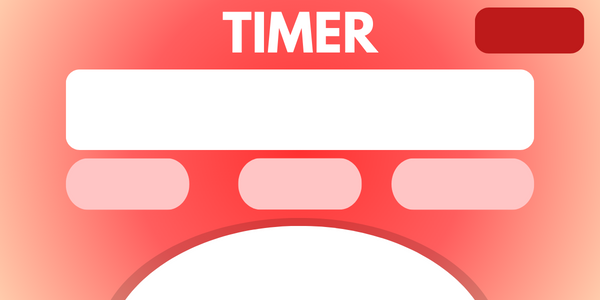
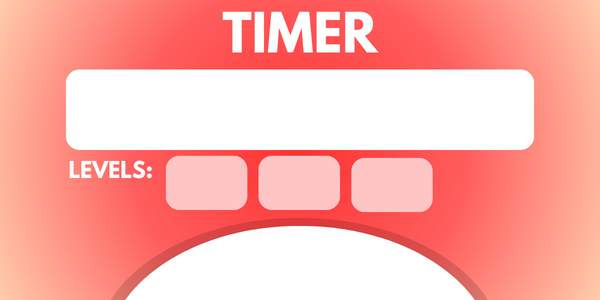
working on time presets

Changed region(s): [[0.09, 0.51, 0.9, 0.72], [0.78, 0.0, 0.99, 0.18]]

diff --git a/efe.py b/efe.py
@@ -27,12 +27,6 @@ beep=pygame. mixer.music.load('pomodoro_beep.mp3')
 bg_img=PhotoImage(file=r'./timer.png')
 pink='#FFC5C5'
 
-cycle =1
-current_time=None
-short_breaktime=False
-long_breaktime=False
-breaktime=False
-    
 
     
 
@@ -57,12 +51,17 @@ Label(root,text='SEC', bg='white').place(x='470',y='120')
 sec.set("00")
 
 
+cycle =1
+current_time=None
+breaktime=NO
 
 
 
 def start_timer():
     global time_run
+    global cycle
     time_run=True
+    cycle=+1
     timer()
    
 def pause_timer():
@@ -70,7 +69,8 @@ def pause_timer():
     time_run=False
     print('timer has paused')
     global current_time
-    root.after_cancel(current_time) #cancels the operation above
+    if current_time is not None:
+        root.after_cancel(current_time) #cancels the operation above
    
     global pause_popup
     global pausebg
@@ -91,14 +91,6 @@ def pause_timer():
     no_button=Button(pause_popup, text='NO, ILL TRY AGAIN', font=('calibri 10 bold'), bg='white', bd=0)
     no_button.place(x='160', y='140')
     
-
-   
-def stop_timer():
-    global time_run
-    time_run=False
-    hrs.set('00')
-    mins.set('00')
-    sec.set('00')
     
 
 def break_mode():
@@ -111,34 +103,29 @@ def break_mode():
     workcbutton.destroy()
     break_noti.destroy()
     
-               
 
 
 def timer():
-    global time_run, current_time, breaktime,short_breaktime, long_breaktime, cycle
-   
+    global time_run
+    global current_time
     total_time = int(hrs.get()) * 3600 + int(mins.get()) * 60 + int(sec.get())
     
-    if total_time > 0 :
+    if total_time > 0:
+        
         total_time -= 1
         hrs.set(str(total_time // 3600).zfill(1))
         mins.set(str((total_time % 3600) // 60).zfill(1))
         sec.set(str(total_time % 60).zfill(1))
-        current_time= root.after(1000, timer) #starts countdown        
-    
-    else: #timer 00
-        global break_noti, cycle, breaktime, break_notiimg
-        breaktime=True
-        if breaktime==True: 
-            cycle+=1
-            if cycle%4==0:
-                short_breaktime==False
-                long_breaktime==True
-            else:
-                long_breaktime==False
-                short_breaktime == True
-                
+        current_time= root.after(1000, timer) #starts countdown
         
+
+    
+    else:
+        global break_noti
+        global break_notiimg
+        global breaktime
+        breaktime=YES
+
         break_notiimg=PhotoImage(file=r'C:\Users\USER\Projects\Meowstermind\BREAK_NOTI.png')
         break_noti = Toplevel()
         break_noti.title(f'Break Time!')
@@ -152,46 +139,22 @@ def timer():
         break_continuebutton=Button(break_noti, text='PROCEED', font=('calibri 12 bold'), bg='white', bd=1, command=break_mode)
         break_continuebutton.place(x='400', y='250')
 
+global break_continuebutton
 
-#time presets
-def worka():
-    hrs.set("00")
-    mins.set("00")
-    sec.set("10")
-    if short_breaktime:
-        hrs.set("00")
-        mins.set("05")
-        sec.set("00")
-    elif long_breaktime:
-        hrs.set("00")
-        mins.set("15")
-        sec.set("00")
-    
-def workb():
+
+  
+   
+   
+def stop_timer():
+    global time_run
+    time_run=False
     hrs.set('00')
-    mins.set('40')
-    sec.set('00')
-    if short_breaktime:
-        hrs.set("00")
-        mins.set("10")
-        sec.set("00")
-    elif long_breaktime:
-        hrs.set("00")
-        mins.set("20")
-        sec.set("00")
-    
-def workc():
-    hrs.set('01')
     mins.set('00')
     sec.set('00')
-    if short_breaktime:
-        hrs.set("00")
-        mins.set("15")
-        sec.set("00")
-    elif long_breaktime:
-        hrs.set("00")
-        mins.set("25")
-        sec.set("00")
+
+
+
+
 
 
 
@@ -204,19 +167,43 @@ stopicon=PhotoImage(file=r'C:\Users\USER\Projects\Meowstermind\images\stop.png')
 stopbutton=Button(root,text='stop', image=stopicon, bg='white', borderwidth=0, command=stop_timer).place(x='350',y='250')
 
 
-    
-moyen=PhotoImage(file=r'C:\Users\USER\Projects\Meowstermind\images\MOYEN.png')
-moolan=PhotoImage(file=r'C:\Users\USER\Projects\Meowstermind\images\MOOLAN.png')
-maria=PhotoImage(file=r'C:\Users\USER\Projects\Meowstermind\images\MARIA.png')
-workabutton=Button(root, image=moyen, bg=pink, font='comfortaa 18 bold', borderwidth=0, command=worka)
-workabutton.place(x='175',y=' 160')
-workbbutton=Button(root, image=moolan, bg=pink, font='comfortaa 18 bold', borderwidth=0, command=workb)
-workbbutton.place(x='270',y=' 160')
-workcbutton=Button(root, image=maria, bg=pink, font='comfortaa 18 bold', borderwidth=0, command=workc)
-workcbutton.place(x='365',y=' 160')
 
+
+
+#time presets
+def worka():
+    hrs.set("00")
+    mins.set("25")
+    sec.set("00")
+    
+def workb():
+    hrs.set('01')
+    mins.set('00')
+    sec.set('00')
+    
+def workc():
+    hrs.set('2')
+    mins.set('00')
+    sec.set('00')
+    
+workabutton=Button(root, text='25 MIN', bg=pink, font='comfortaa 18 bold', borderwidth=0, command=worka)
+workabutton.place(x='80',y=' 160')
+workbbutton=Button(root, text='60 MIN', bg=pink, font='comfortaa 18 bold', borderwidth=0, command=workb)
+workbbutton.place(x='250',y=' 160')
+workcbutton=Button(root, text='120 MIN', bg=pink, font='comfortaa 18 bold', borderwidth=0, command=workc)
+workcbutton.place(x='410',y=' 160')
+
+def short_break():
+    hrs.set("00")
+    mins.set("5")
+    sec.set("00")
+    
+def long_break():
+    hrs.set("00")
+    mins.set("15")
+    sec.set("00")
+    
 
 
 root.mainloop()
 root.update()
-

diff --git a/notetaking.py b/notetaking.py
@@ -1,0 +1,16 @@
+
+from customtkinter import*
+from tkinter.messagebox import *
+from tkinter.filedialog import *
+from PIL import Image
+
+note=CTk()
+note.title('PurrfectNotes')
+note.geometry('800x500')
+note.iconbitmap(r'C:\Users\USER\Projects\Meowstermind\notes.ico')
+notesbg=CTkImage(Image.open('meowtes.png'))
+bg=CTkLabel(note, image=notesbg, text='', size='800x500')
+bg.pack()
+
+note.mainloop()
+
